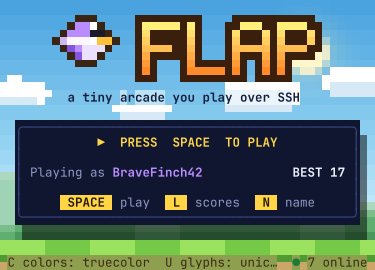
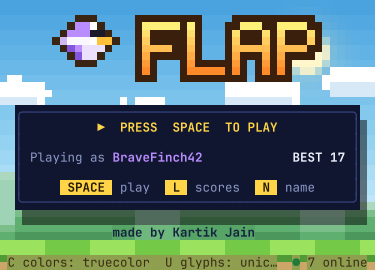
Credit the developer in the game and README
- Show "made by Kartik Jain" under the welcome card. When space is short
  it takes priority over the subtitle and card padding, but never costs
  leaderboard rows.
- Add an ABOUT section to the help overlay naming the developer.
- Add a Credits section to the README.

Regenerated the welcome, compact and help screenshots. AGENTS.md is
updated.

Changed region(s): [[0.0293, 0.3259, 0.9973, 0.8889], [0.7627, 0.563, 0.9387, 0.6519], [0.2347, 0.5037, 0.2933, 0.5333]]

diff --git a/internal/tui/screens.go b/internal/tui/screens.go
@@ -12,6 +12,9 @@ import (
 	"flap/internal/store"
 )
 
+// credit names the game's developer on the welcome and help screens.
+const credit = "made by Kartik Jain"
+
 // glyphSet holds the symbols used by the UI in each glyph mode.
 type glyphSet struct {
 	box                                canvas.BoxStyle
@@ -281,6 +284,7 @@ type welcomeLayout struct {
 	subRow         int
 	showSub        bool
 	card           canvas.Rect
+	showCredit     bool // the credit line under the card's shadow
 	boardN         int
 	roomy          bool
 }
@@ -320,31 +324,37 @@ func (a *App) welcomeLayout() welcomeLayout {
 		// The preview shows up to five entries but never reserves rows for
 		// entries that do not exist.
 		want := min(5, max(1, len(a.top)))
+		// The credit outranks spacing and the subtitle, not the leaderboard.
 		for _, boardN := range []int{want, min(want, 3), 0} {
-			for _, roomy := range []bool{true, false} {
-				for _, sub := range []bool{true, false} {
-					cardH := a.welcomeCardLines(boardN, roomy) + 2
-					total := titleRows + 1 + cardH
-					if sub {
-						total++
+			for _, credit := range []bool{true, false} {
+				for _, roomy := range []bool{true, false} {
+					for _, sub := range []bool{true, false} {
+						cardH := a.welcomeCardLines(boardN, roomy) + 2
+						total := titleRows + 1 + cardH
+						if sub {
+							total++
+						}
+						if credit {
+							total += 2 // the card's shadow, then the credit
+						}
+						if total > avail {
+							continue
+						}
+						top := 1 + (avail-total)/2
+						groupX := (l.w - groupW) / 2
+						wl := welcomeLayout{titleScale: scale, boardN: boardN, roomy: roomy, showSub: sub, showCredit: credit, birdSX: birdSX, birdSY: birdSY}
+						wl.titleX = groupX + birdW + 2
+						wl.titleY = top * l.ppc
+						wl.birdX = float64(groupX) + float64(birdW)/2
+						wl.birdY = float64(wl.titleY) + float64(titleH)/2 + math.Sin(a.t*2.4)*float64(l.ppc)
+						row := top + titleRows
+						if sub {
+							wl.subRow = row
+							row++
+						}
+						wl.card = canvas.Rect{X: (l.w - cardW) / 2, Y: row + 1, W: cardW, H: cardH}
+						return wl
 					}
-					if total > avail {
-						continue
-					}
-					top := 1 + (avail-total)/2
-					groupX := (l.w - groupW) / 2
-					wl := welcomeLayout{titleScale: scale, boardN: boardN, roomy: roomy, showSub: sub, birdSX: birdSX, birdSY: birdSY}
-					wl.titleX = groupX + birdW + 2
-					wl.titleY = top * l.ppc
-					wl.birdX = float64(groupX) + float64(birdW)/2
-					wl.birdY = float64(wl.titleY) + float64(titleH)/2 + math.Sin(a.t*2.4)*float64(l.ppc)
-					row := top + titleRows
-					if sub {
-						wl.subRow = row
-						row++
-					}
-					wl.card = canvas.Rect{X: (l.w - cardW) / 2, Y: row + 1, W: cardW, H: cardH}
-					return wl
 				}
 			}
 		}
@@ -450,6 +460,9 @@ func (a *App) drawWelcome() {
 	}
 	a.hints(in.X, r.Y+r.H-2, in.W, hs)
 
+	if wl.showCredit {
+		a.cv.TextCentered(0, r.Y+r.H+1, l.w, a.trunc(credit, l.w-2), hex(0x14213f), canvas.Bold)
+	}
 	a.drawStatusBar()
 }
 
@@ -747,11 +760,15 @@ func (a *App) drawHelp() {
 		{"", "TIPS", true},
 		{"", "Short taps beat long holds. Aim for the lower half of each gap.", false},
 		{"", "If colors look wrong press C; if borders look broken press U.", false},
+		{"", "", false},
+		{"", "ABOUT", true},
+		{"", "Flap is " + credit + " (github.com/KartikJain14).", false},
 	}
 	w := min(l.w-4, 70)
 	maxLines := l.h - 4
 	if len(lines) > maxLines {
-		// Drop the tips first, then identity, keeping the controls.
+		// Drop the credits first, then the tips and identity, keeping the
+		// controls.
 		lines = lines[:max(0, min(len(lines), maxLines))]
 	}
 	h := len(lines) + 4

diff --git a/AGENTS.md b/AGENTS.md
@@ -181,3 +181,16 @@ Measured on a Ryzen 5 5600X, static binary, 256 colours:
   - Verified: unit tests; an SSH test that BEL reaches the client; and the
     real OpenSSH client in tmux with an `alert-bell` hook (crash rings,
     S-off is silent, S-on rings a sample).
+- 2026-10-24: Added developer credits at the user's request: "made by
+  Kartik Jain" under the welcome card (`credit` in `tui/screens.go`; in
+  `welcomeLayout` it outranks card spacing and the subtitle but never costs
+  leaderboard rows), an ABOUT section in the help overlay, and a Credits
+  section in the README. Regenerated welcome, compact and help screenshots.
+  - The user asked how to host on port 22 (admin sshd on 2222) and wants
+    **instructions only, no deployment code changes**. The working recipe:
+    install with `--port 22 --allow-port-22 --no-start`, then a manual
+    systemd drop-in with `CapabilityBoundingSet=` and
+    `AmbientCapabilities=CAP_NET_BIND_SERVICE` plus `PrivateUsers=false`
+    (the unit otherwise cannot bind ports below 1024). This was verified in
+    the Debian 12 and Ubuntu 24.04 systemd containers: exposure 1.5, real
+    sessions on port 22. The installer changes were reverted.

diff --git a/README.md b/README.md
@@ -346,6 +346,12 @@ server sends standard VT sequences and always emits CR LF newlines, which
 these clients handle. [docs/OPERATIONS.md](docs/OPERATIONS.md#client-compatibility-checklist)
 has a manual checklist for them.
 
+## Credits
+
+Flap is designed and developed by
+[Kartik Jain](https://github.com/KartikJain14). The game also credits its
+developer on the welcome screen and in the in-game help.
+
 ## License
 
 No license has been chosen yet; add one before publishing.
